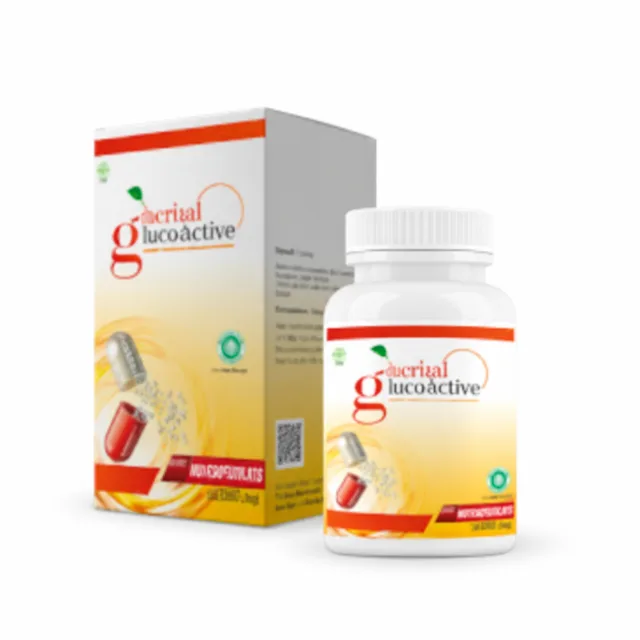
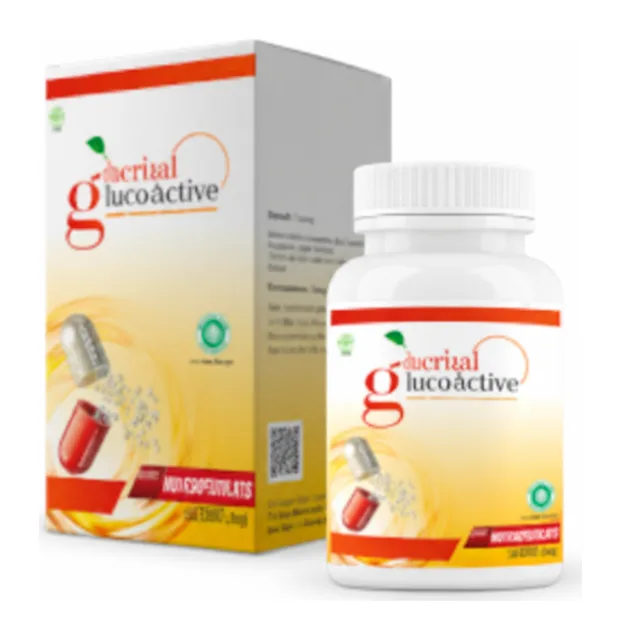
Фото, волна 2: мыльные и мелкие кадры перерисованы чётко (с проверкой текста и цифр на упаковке), капсулы рядом и обрезанные упаковки исправлены

diff --git a/cp/healthpeak/index.html b/cp/healthpeak/index.html
@@ -321,7 +321,7 @@ body.free .disc,body:not(.free) .nodisc{display:none}
       <div>
         <div class="product-card">
           <span class="disc-ribbon disc">-50%</span>
-          <img src="../../img/cpagetti-healthpeak.webp" alt="Healthpeak" width="560" height="560" fetchpriority="high" decoding="async">
+          <img src="../../img/cpagetti-healthpeak.webp" alt="Healthpeak" width="560" height="625" fetchpriority="high" decoding="async">
           <div><span class="ribbon">Asli</span><div class="shotcap">Inilah kemasan asli yang akan dibawa kurir: segel, nomor batch, dan tanggal kedaluwarsa.</div></div>
         </div>
       </div>

diff --git a/dc/cardia-plus/index.html b/dc/cardia-plus/index.html
@@ -321,7 +321,7 @@ body.free .disc,body:not(.free) .nodisc{display:none}
       <div>
         <div class="product-card">
           <span class="disc-ribbon disc">-50%</span>
-          <img src="../../img/drcash-cardia-plus.webp" alt="Cardia Plus" width="577" height="640" fetchpriority="high" decoding="async">
+          <img src="../../img/drcash-cardia-plus.webp" alt="Cardia Plus" width="640" height="600" fetchpriority="high" decoding="async">
           <div><span class="ribbon">Asli</span><div class="shotcap">Inilah kemasan asli yang akan dibawa kurir: segel, nomor batch, dan tanggal kedaluwarsa.</div></div>
         </div>
       </div>

diff --git a/dc/glucoactive-28594/index.html b/dc/glucoactive-28594/index.html
@@ -321,7 +321,7 @@ body.free .disc,body:not(.free) .nodisc{display:none}
       <div>
         <div class="product-card">
           <span class="disc-ribbon disc">-50%</span>
-          <img src="../../img/cat-lea-10264.webp" alt="Glucoactive390k" width="560" height="560" fetchpriority="high" decoding="async">
+          <img src="../../img/cat-lea-10264.webp" alt="Glucoactive390k" width="372" height="640" fetchpriority="high" decoding="async">
           <div><span class="ribbon">Asli</span><div class="shotcap">Inilah kemasan asli yang akan dibawa kurir: segel, nomor batch, dan tanggal kedaluwarsa.</div></div>
         </div>
       </div>

diff --git a/lb/artriblock/index.html b/lb/artriblock/index.html
@@ -321,7 +321,7 @@ body.free .disc,body:not(.free) .nodisc{display:none}
       <div>
         <div class="product-card">
           <span class="disc-ribbon disc">-50%</span>
-          <img src="../../img/bgw-cat-lea-11107.webp" alt="Artriblock" width="640" height="640" fetchpriority="high" decoding="async">
+          <img src="../../img/bgw-cat-lea-11107.webp" alt="Artriblock" width="640" height="604" fetchpriority="high" decoding="async">
           <div><span class="ribbon">Asli</span><div class="shotcap">Inilah kemasan asli yang akan dibawa kurir: segel, nomor batch, dan tanggal kedaluwarsa.</div></div>
         </div>
       </div>

diff --git a/dc/glucoactive/index.html b/dc/glucoactive/index.html
@@ -321,7 +321,7 @@ body.free .disc,body:not(.free) .nodisc{display:none}
       <div>
         <div class="product-card">
           <span class="disc-ribbon disc">-50%</span>
-          <img src="../../img/bgw-cat-met-965.webp" alt="Glucoactive" width="640" height="640" fetchpriority="high" decoding="async">
+          <img src="../../img/bgw-cat-met-965.webp" alt="Glucoactive" width="621" height="640" fetchpriority="high" decoding="async">
           <div><span class="ribbon">Asli</span><div class="shotcap">Inilah kemasan asli yang akan dibawa kurir: segel, nomor batch, dan tanggal kedaluwarsa.</div></div>
         </div>
       </div>

diff --git a/lr/glucoactive/index.html b/lr/glucoactive/index.html
@@ -321,7 +321,7 @@ body.free .disc,body:not(.free) .nodisc{display:none}
       <div>
         <div class="product-card">
           <span class="disc-ribbon disc">-50%</span>
-          <img src="../../img/bgw-cat-met-965.webp" alt="Glucoactive" width="640" height="640" fetchpriority="high" decoding="async">
+          <img src="../../img/bgw-cat-met-965.webp" alt="Glucoactive" width="621" height="640" fetchpriority="high" decoding="async">
           <div><span class="ribbon">Asli</span><div class="shotcap">Inilah kemasan asli yang akan dibawa kurir: segel, nomor batch, dan tanggal kedaluwarsa.</div></div>
         </div>
       </div>

diff --git a/mc/glucoactive/index.html b/mc/glucoactive/index.html
@@ -321,7 +321,7 @@ body.free .disc,body:not(.free) .nodisc{display:none}
       <div>
         <div class="product-card">
           <span class="disc-ribbon disc">-50%</span>
-          <img src="../../img/bgw-cat-met-965.webp" alt="Glucoactive" width="640" height="640" fetchpriority="high" decoding="async">
+          <img src="../../img/bgw-cat-met-965.webp" alt="Glucoactive" width="621" height="640" fetchpriority="high" decoding="async">
           <div><span class="ribbon">Asli</span><div class="shotcap">Inilah kemasan asli yang akan dibawa kurir: segel, nomor batch, dan tanggal kedaluwarsa.</div></div>
         </div>
       </div>

diff --git a/kma/glucoactive/index.html b/kma/glucoactive/index.html
@@ -321,7 +321,7 @@ body.free .disc,body:not(.free) .nodisc{display:none}
       <div>
         <div class="product-card">
           <span class="disc-ribbon disc">-50%</span>
-          <img src="../../img/big-8367094940.webp" alt="Glucoactive" width="640" height="640" fetchpriority="high" decoding="async">
+          <img src="../../img/big-8367094940.webp" alt="Glucoactive" width="620" height="640" fetchpriority="high" decoding="async">
           <div><span class="ribbon">Asli</span><div class="shotcap">Inilah kemasan asli yang akan dibawa kurir: segel, nomor batch, dan tanggal kedaluwarsa.</div></div>
         </div>
       </div>

diff --git a/lb/glucoactive/index.html b/lb/glucoactive/index.html
@@ -321,7 +321,7 @@ body.free .disc,body:not(.free) .nodisc{display:none}
       <div>
         <div class="product-card">
           <span class="disc-ribbon disc">-50%</span>
-          <img src="../../img/cat-lea-10264.webp" alt="Glucoactive" width="560" height="560" fetchpriority="high" decoding="async">
+          <img src="../../img/cat-lea-10264.webp" alt="Glucoactive" width="372" height="640" fetchpriority="high" decoding="async">
           <div><span class="ribbon">Asli</span><div class="shotcap">Inilah kemasan asli yang akan dibawa kurir: segel, nomor batch, dan tanggal kedaluwarsa.</div></div>
         </div>
       </div>

diff --git a/cp/evision/index.html b/cp/evision/index.html
@@ -321,7 +321,7 @@ body.free .disc,body:not(.free) .nodisc{display:none}
       <div>
         <div class="product-card">
           <span class="disc-ribbon disc">-50%</span>
-          <img src="../../img/cpagetti-evision.webp" alt="Evision" width="560" height="560" fetchpriority="high" decoding="async">
+          <img src="../../img/cpagetti-evision.webp" alt="Evision" width="560" height="578" fetchpriority="high" decoding="async">
           <div><span class="ribbon">Asli</span><div class="shotcap">Inilah kemasan asli yang akan dibawa kurir: segel, nomor batch, dan tanggal kedaluwarsa.</div></div>
         </div>
       </div>

diff --git a/dc/altensia/index.html b/dc/altensia/index.html
@@ -321,7 +321,7 @@ body.free .disc,body:not(.free) .nodisc{display:none}
       <div>
         <div class="product-card">
           <span class="disc-ribbon disc">-50%</span>
-          <img src="../../img/drcash-altensia.webp" alt="Altensia" width="577" height="640" fetchpriority="high" decoding="async">
+          <img src="../../img/drcash-altensia.webp" alt="Altensia" width="640" height="571" fetchpriority="high" decoding="async">
           <div><span class="ribbon">Asli</span><div class="shotcap">Inilah kemasan asli yang akan dibawa kurir: segel, nomor batch, dan tanggal kedaluwarsa.</div></div>
         </div>
       </div>

diff --git a/kma/hemocool/index.html b/kma/hemocool/index.html
@@ -321,7 +321,7 @@ body.free .disc,body:not(.free) .nodisc{display:none}
       <div>
         <div class="product-card">
           <span class="disc-ribbon disc">-50%</span>
-          <img src="../../img/up-nl-kma-10335.webp" alt="Hemocool" width="560" height="553" fetchpriority="high" decoding="async">
+          <img src="../../img/up-nl-kma-10335.webp" alt="Hemocool" width="525" height="640" fetchpriority="high" decoding="async">
           <div><span class="ribbon">Asli</span><div class="shotcap">Inilah kemasan asli yang akan dibawa kurir: segel, nomor batch, dan tanggal kedaluwarsa.</div></div>
         </div>
       </div>
